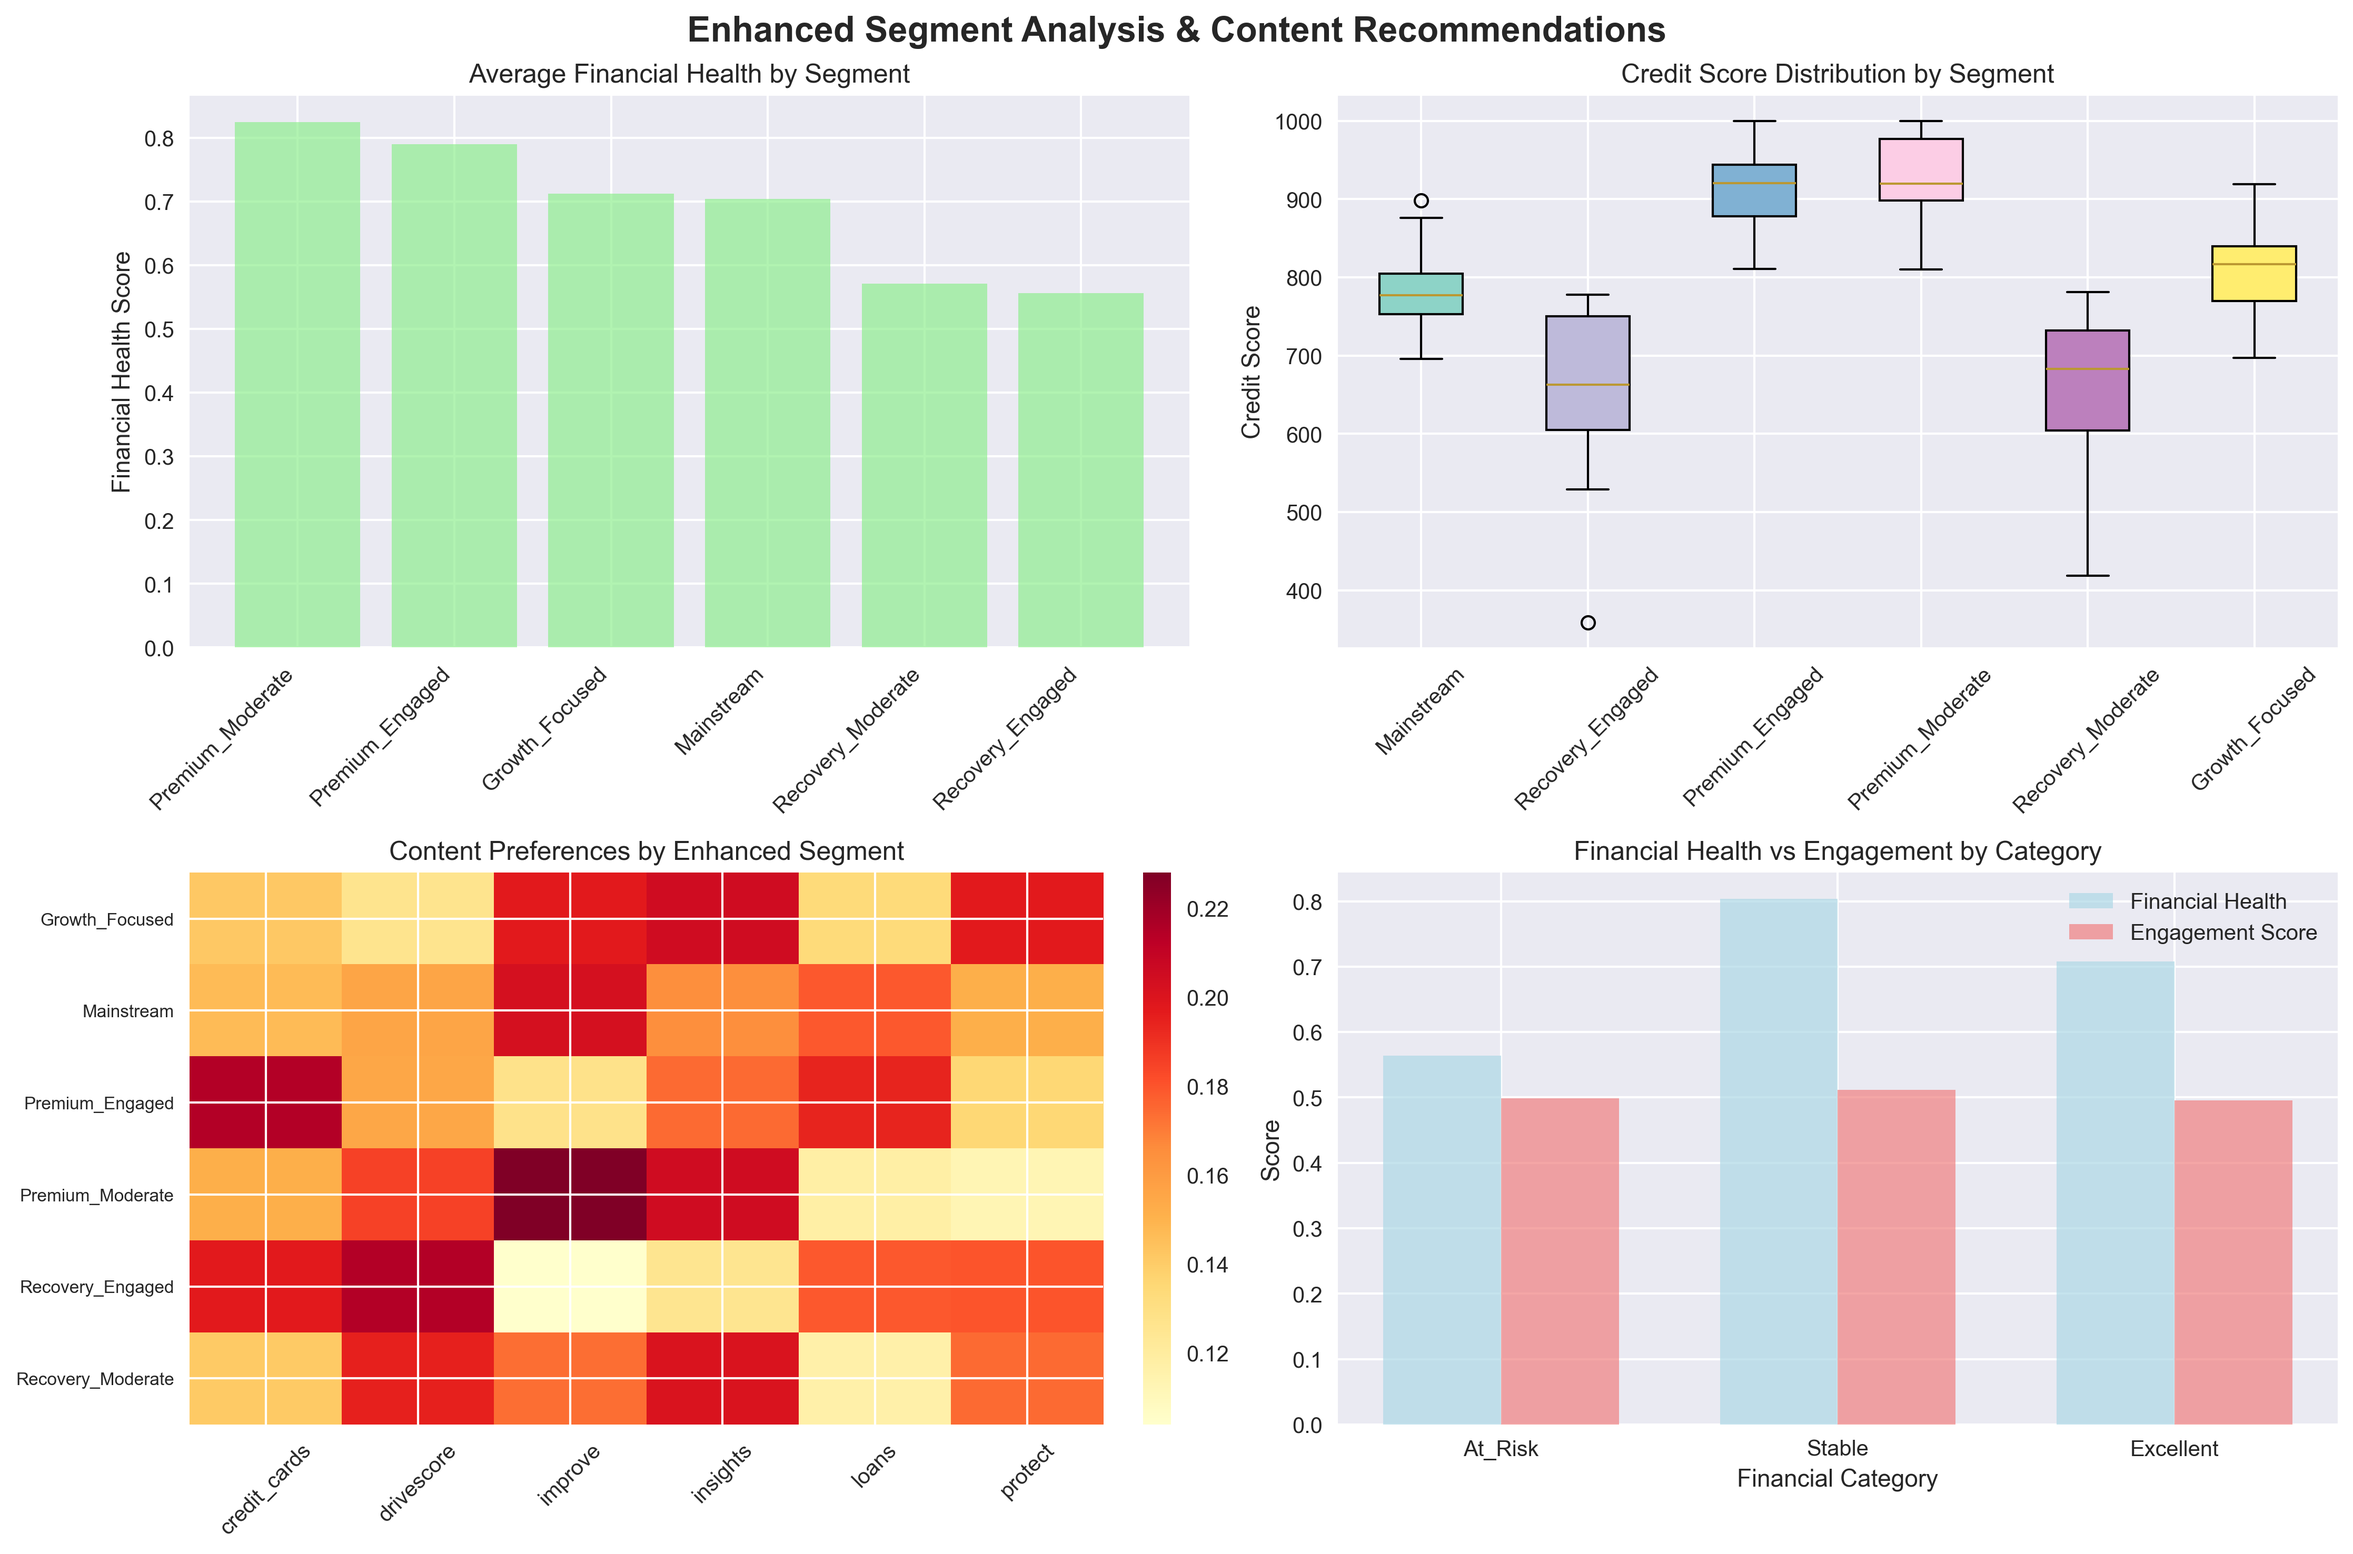
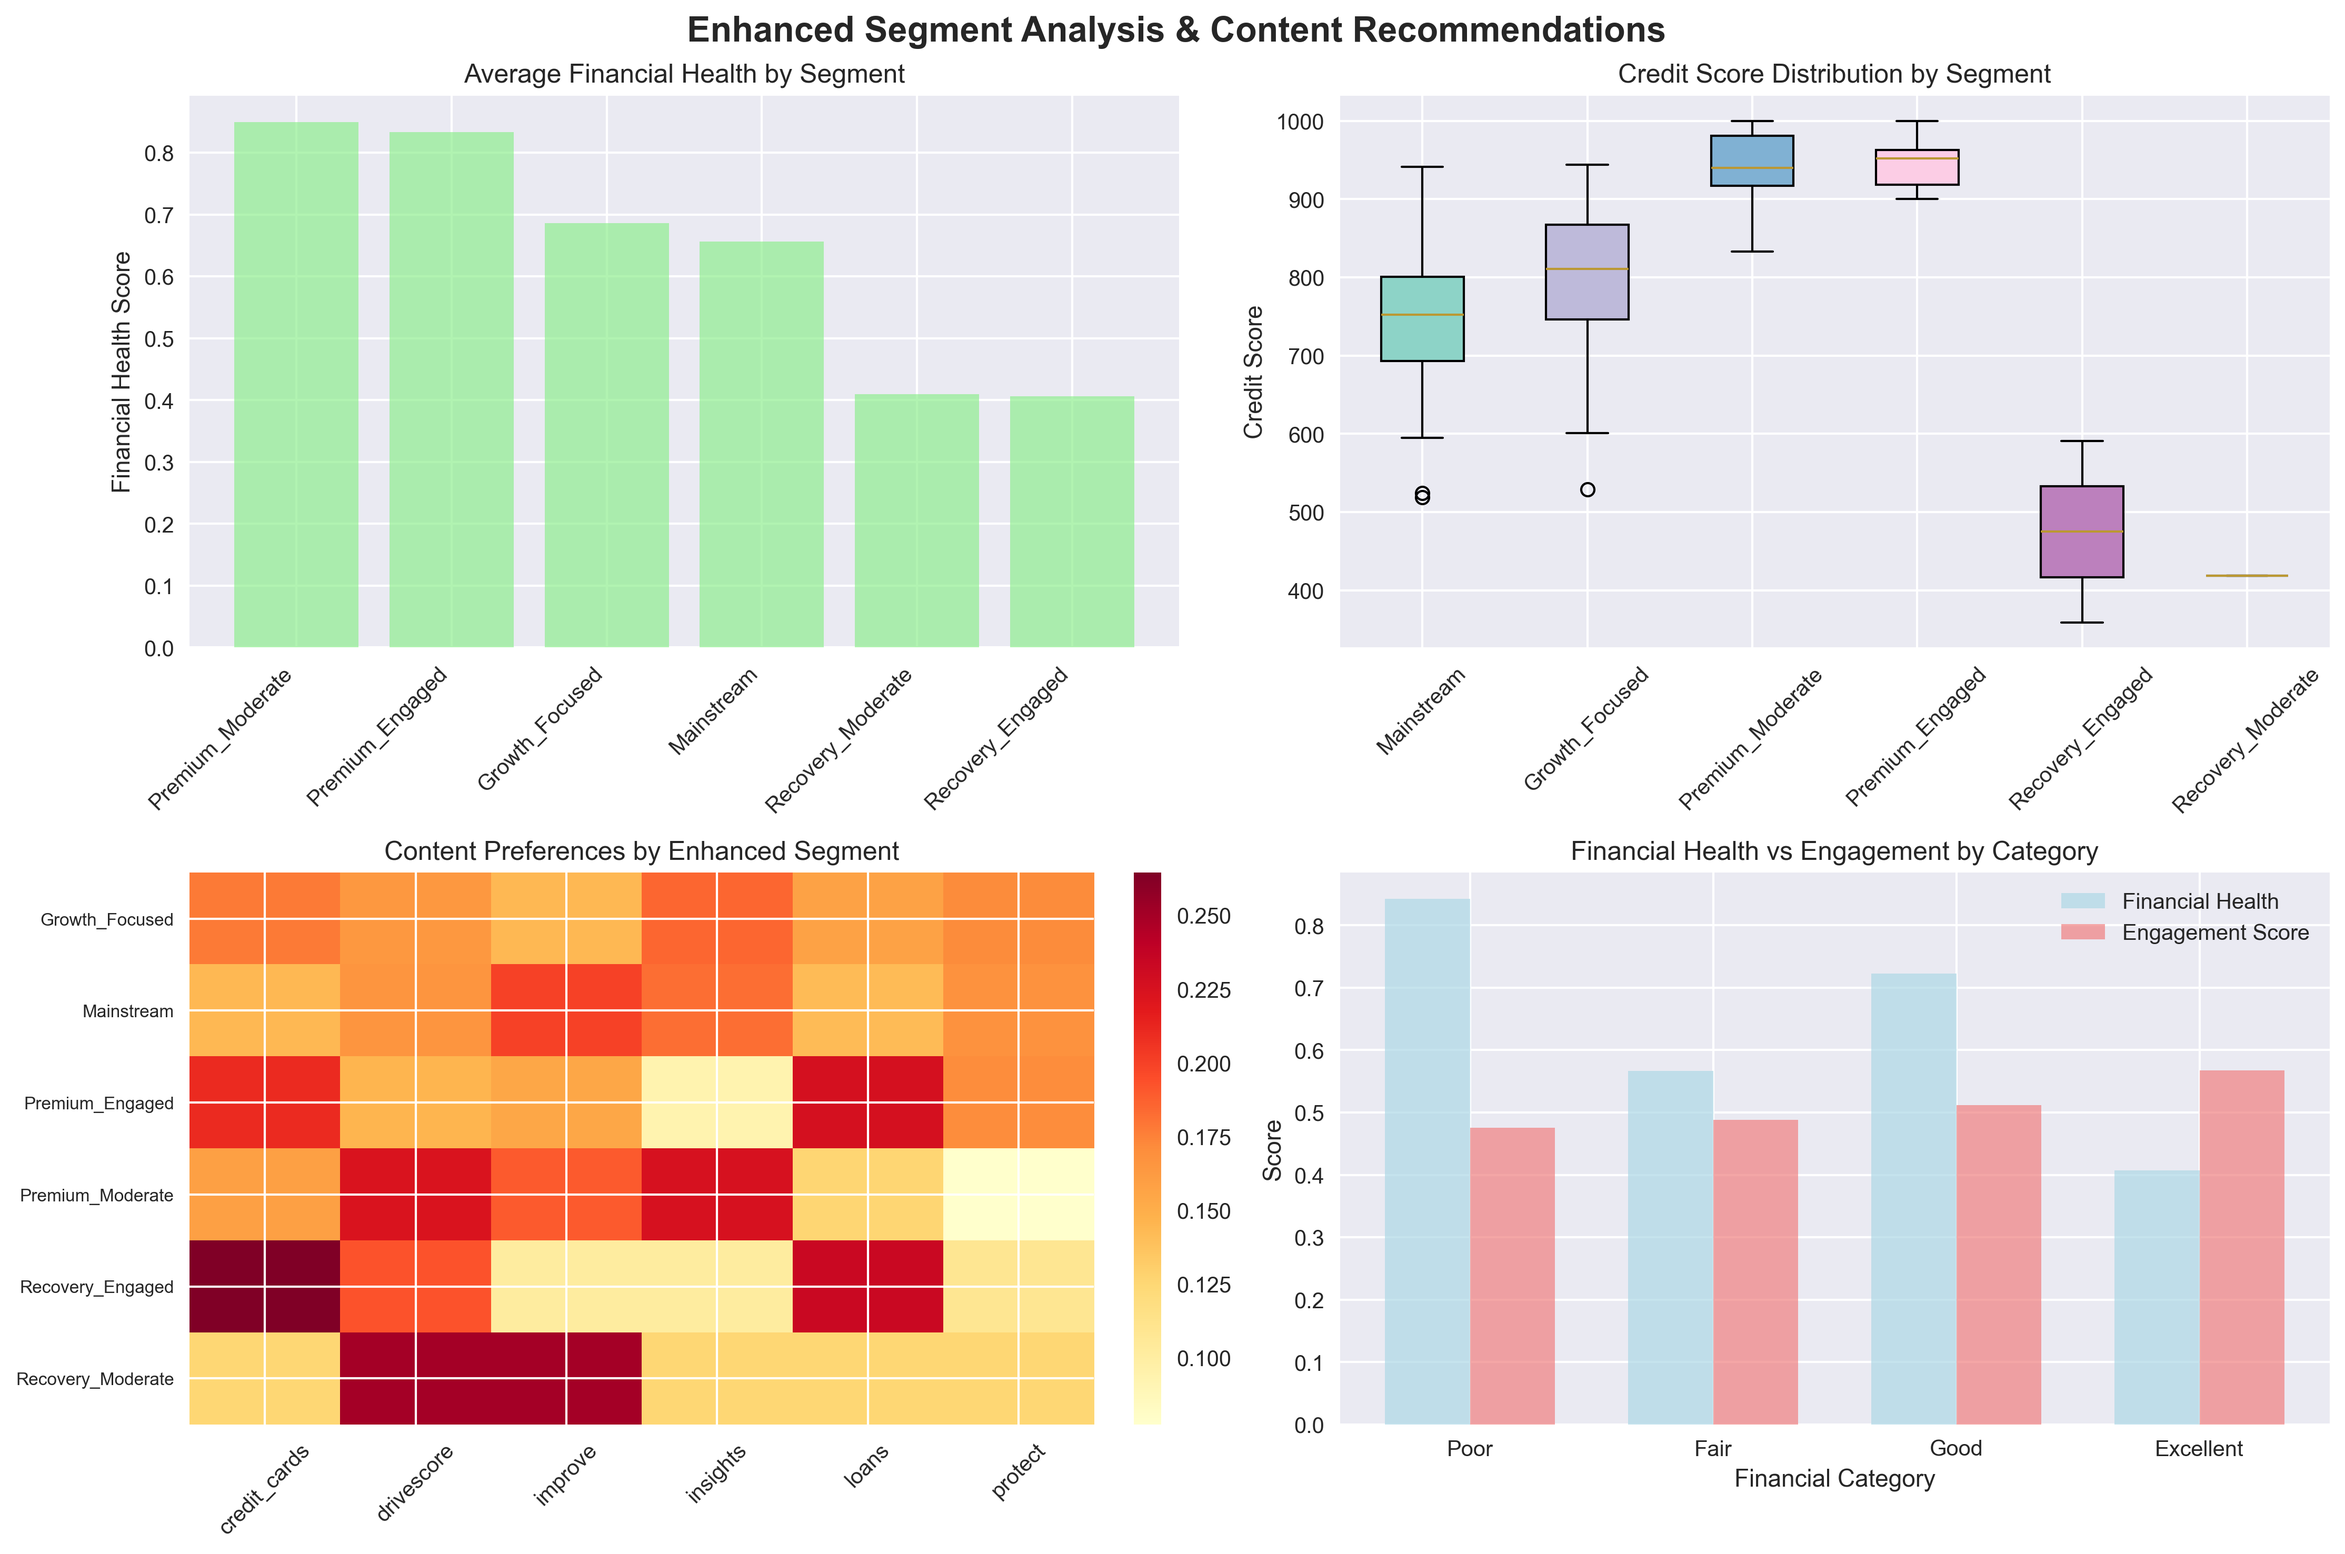
Change percentile threshold to absolute

diff --git a/enhanced_financial_recommender.py b/enhanced_financial_recommender.py
@@ -19,8 +19,8 @@ class FinanciallyAwareRecommender:
         self.scaler = StandardScaler()
         
     def create_financial_health_score(self):
-        """Create a comprehensive financial health score"""
-        print("Creating financial health scores...")
+        """Create a comprehensive financial health score with absolute threshold categorization"""
+        print("Creating financial health scores with absolute categorization thresholds...")
         
         # Get unique users with their financial attributes
         user_financial = self.df.groupby('user_id').first()[
@@ -49,7 +49,7 @@ class FinanciallyAwareRecommender:
             # Asset Component (having mortgage/car indicates stability)
             asset_component = (user['has_mortgage'] * 0.6 + user['has_car'] * 0.4)
             
-            # Calculate composite financial health score (0-1) (Weightings can be changed, currently heaviest weighting given to credit score maybe ccj should be more)
+            # Calculate composite financial health score (0-1) with improved weighting
             financial_health = (
                 credit_component * 0.30 +
                 dti_component * 0.25 +
@@ -63,24 +63,29 @@ class FinanciallyAwareRecommender:
         
         user_financial['financial_health_score'] = financial_scores
         
-        # Categorize financial health
-        low_threshold = np.percentile(financial_scores, 33)
-        high_threshold = np.percentile(financial_scores, 67)
-        
+        # ABSOLUTE THRESHOLDS based on real UK financial health standards
         def categorize_financial_health(score):
-            if score < low_threshold:
-                return "At_Risk"
-            elif score < high_threshold:
-                return "Stable"
+            if score >= 0.8:
+                return "Excellent"      # Strong across all metrics
+            elif score >= 0.65:
+                return "Good"           # Above average financial health
+            elif score >= 0.45:
+                return "Fair"           # Some concerns but manageable
             else:
-                return "Excellent"
-                
-        user_financial['financial_category'] = [
-            categorize_financial_health(score) for score in financial_scores
-        ]
+                return "Poor"           # Significant financial challenges
         
-        print(f"Financial health distribution:")
+        user_financial['financial_category'] = user_financial['financial_health_score'].apply(categorize_financial_health)
+        
+        print("Financial health distribution with absolute thresholds:")
         print(user_financial['financial_category'].value_counts())
+        print(f"Score ranges: {user_financial['financial_health_score'].min():.3f} - {user_financial['financial_health_score'].max():.3f}")
+        
+        # Show categorization thresholds used
+        print("\nAbsolute Categorization Thresholds Applied:")
+        print("Excellent: Score >= 0.8 (Strong financial health across all metrics)")
+        print("Good: Score >= 0.65 (Above average financial health)")
+        print("Fair: Score >= 0.45 (Some concerns but manageable)")
+        print("Poor: Score < 0.45 (Significant financial challenges)")
         
         return user_financial
     
@@ -155,19 +160,19 @@ class FinanciallyAwareRecommender:
             if engagement > 0.5:
                 if financial_cat == "Excellent":
                     return "Premium_Engaged"
-                elif financial_cat == "Stable":
+                elif financial_cat in ["Good", "Fair"]:
                     return "Growth_Focused"
                 else:
                     return "Recovery_Engaged"
             elif engagement > 0.25:
                 if financial_cat == "Excellent":
                     return "Premium_Moderate"
-                elif financial_cat == "Stable":
+                elif financial_cat in ["Good", "Fair"]:
                     return "Mainstream"
                 else:
                     return "Recovery_Moderate"
             else:
-                if financial_cat == "At_Risk":
+                if financial_cat == "Poor":
                     return "Financial_Priority"
                 else:
                     return "Activation_Needed"
@@ -182,7 +187,7 @@ class FinanciallyAwareRecommender:
     def create_financial_visualizations(self):
         """Create comprehensive financial and engagement visualizations"""
         print("\n" + "=" * 60)
-        print("CREATING FINANCIAL ANALYSIS VISUALIZATIONS")
+        print("CREATING FINANCIAL ANALYSIS VISUALaIZATIONS")
         print("=" * 60)
         
         # FIGURE 1: Financial Health Dashboard (2x3 grid)
@@ -351,7 +356,7 @@ class FinanciallyAwareRecommender:
         plt.colorbar(im2, ax=axes3[1, 0], fraction=0.046, pad=0.04)
         
         # 4. Financial vs Engagement score comparison
-        financial_categories = ['At_Risk', 'Stable', 'Excellent']
+        financial_categories = ['Poor', 'Fair', 'Good', 'Excellent']
         fin_eng_comparison = self.user_features.groupby('financial_category')[['financial_health_score', 'engagement_score']].mean()
         
         x = np.arange(len(financial_categories))
@@ -489,8 +494,8 @@ class FinanciallyAwareRecommender:
                     base_score *= 0.5  # Reduce loan recommendations for high DTI
                 elif content_type == 'credit_cards' and has_ccj:
                     base_score *= 0.3  # Reduce credit card recommendations for CCJ users
-                elif content_type == 'drivescore' and financial_cat == "At_Risk":
-                    base_score *= 1.8  # Financial education priority for at-risk users
+                elif content_type == 'drivescore' and financial_cat == "Poor":
+                    base_score *= 1.8  # Financial education priority for financially challenged users
                 elif content_type == 'insights' and missed_payments > 2:
                     base_score *= 1.7  # Financial insights for users with payment issues
                 
@@ -557,7 +562,7 @@ class FinanciallyAwareRecommender:
         if user_data['has_ccj']:
             flags.append("LEGAL_ACTION")
         
-        return flags if flags else ["STABLE"]
+        return flags if flags else ["STABLE_FINANCIAL_POSITION"]
     
     def get_strategy_by_segment(self, segment, user_data):
         """Get tailored strategy based on enhanced segment"""
@@ -570,7 +575,7 @@ class FinanciallyAwareRecommender:
             
             "Premium_Moderate": f"Offer premium content with clear value propositions. Balance wealth building with practical financial advice. Leverage high financial health score: {user_data['financial_health_score']:.2f}.",
             
-            "Mainstream": f"Provide balanced financial content for stable users. Focus on practical advice and gradual improvement. Build on stable financial foundation.",
+            "Mainstream": f"Provide balanced financial content for users with decent financial health. Focus on practical advice and gradual improvement. Build on solid financial foundation.",
             
             "Recovery_Moderate": f"Deliver accessible financial recovery content. Simplify complex concepts and focus on immediate actionable steps. Address DTI ratio: {user_data['dti_ratio']:.2f}.",
             

diff --git a/improved_financial_categorization.py b/improved_financial_categorization.py
@@ -1,0 +1,106 @@
+import pandas as pd
+import numpy as np
+
+def create_realistic_financial_health_score(user_financial):
+    """Create financial health score with realistic UK-based categorization"""
+    
+    financial_scores = []
+    
+    for _, user in user_financial.iterrows():
+        # Credit Score Component (based on UK Experian scale 0-999)
+        credit_score = user['credit_score']
+        if credit_score >= 881:
+            credit_component = 1.0      # Excellent (881-999)
+        elif credit_score >= 721:
+            credit_component = 0.75     # Good (721-880)
+        elif credit_score >= 561:
+            credit_component = 0.5      # Fair (561-720)
+        else:
+            credit_component = 0.25     # Poor (0-560)
+        
+        # DTI Ratio Component (UK standards)
+        dti_ratio = user['dti_ratio']
+        if dti_ratio <= 0.3:
+            dti_component = 1.0         # Excellent (<30%)
+        elif dti_ratio <= 0.4:
+            dti_component = 0.75        # Good (30-40%)
+        elif dti_ratio <= 0.5:
+            dti_component = 0.5         # Fair (40-50%)
+        else:
+            dti_component = 0.25        # Poor (>50%)
+        
+        # Income Component (UK median ~£31,400)
+        income = user['income']
+        if income >= 50000:
+            income_component = 1.0      # High income
+        elif income >= 31400:
+            income_component = 0.75     # Above median
+        elif income >= 20000:
+            income_component = 0.5      # Moderate income
+        else:
+            income_component = 0.25     # Low income
+        
+        # Missed Payments Component
+        missed_payments = user['missed_payments']
+        if missed_payments == 0:
+            payment_component = 1.0     # Perfect payment history
+        elif missed_payments <= 2:
+            payment_component = 0.75    # Minor issues
+        elif missed_payments <= 4:
+            payment_component = 0.5     # Moderate issues
+        else:
+            payment_component = 0.25    # Serious issues
+        
+        # CCJ Component (binary impact)
+        ccj_component = 0.0 if user['has_ccj'] else 1.0
+        
+        # Asset Component 
+        asset_component = (user['has_mortgage'] * 0.6 + user['has_car'] * 0.4)
+        
+        # Weighted composite score
+        financial_health = (
+            credit_component * 0.35 +       # Credit score most important
+            dti_component * 0.25 +          # Debt management crucial
+            payment_component * 0.20 +      # Payment history important
+            income_component * 0.10 +       # Income level
+            ccj_component * 0.05 +          # Legal issues (minor weight but critical)
+            asset_component * 0.05          # Asset ownership (least important)
+        )
+        
+        financial_scores.append(financial_health)
+    
+    user_financial['financial_health_score'] = financial_scores
+    
+    # ABSOLUTE THRESHOLDS based on real financial health standards
+    def categorize_financial_health_realistic(score):
+        if score >= 0.8:
+            return "Excellent"      # Strong across all metrics
+        elif score >= 0.65:
+            return "Good"           # Above average financial health
+        elif score >= 0.45:
+            return "Fair"           # Some concerns but manageable
+        else:
+            return "Poor"           # Significant financial challenges
+    
+    user_financial['financial_category'] = user_financial['financial_health_score'].apply(
+        categorize_financial_health_realistic
+    )
+    
+    print("Realistic Financial Health Distribution:")
+    print(user_financial['financial_category'].value_counts())
+    print(f"Score ranges: {user_financial['financial_health_score'].min():.3f} - {user_financial['financial_health_score'].max():.3f}")
+    
+    return user_financial
+
+# Example of what realistic distribution might look like:
+# Poor: 15-25% (users with serious financial challenges)
+# Fair: 35-45% (users with some financial concerns)  
+# Good: 25-35% (users with decent financial health)
+# Excellent: 5-15% (users with strong financial position)
+
+print("Key improvements:")
+print("✅ Credit scores use actual UK Experian ranges")
+print("✅ DTI ratios use recognized lending standards")
+print("✅ Income thresholds based on UK median income")
+print("✅ Categories reflect absolute financial health, not relative ranking")
+print("✅ Distribution reflects real-world financial health patterns") 
